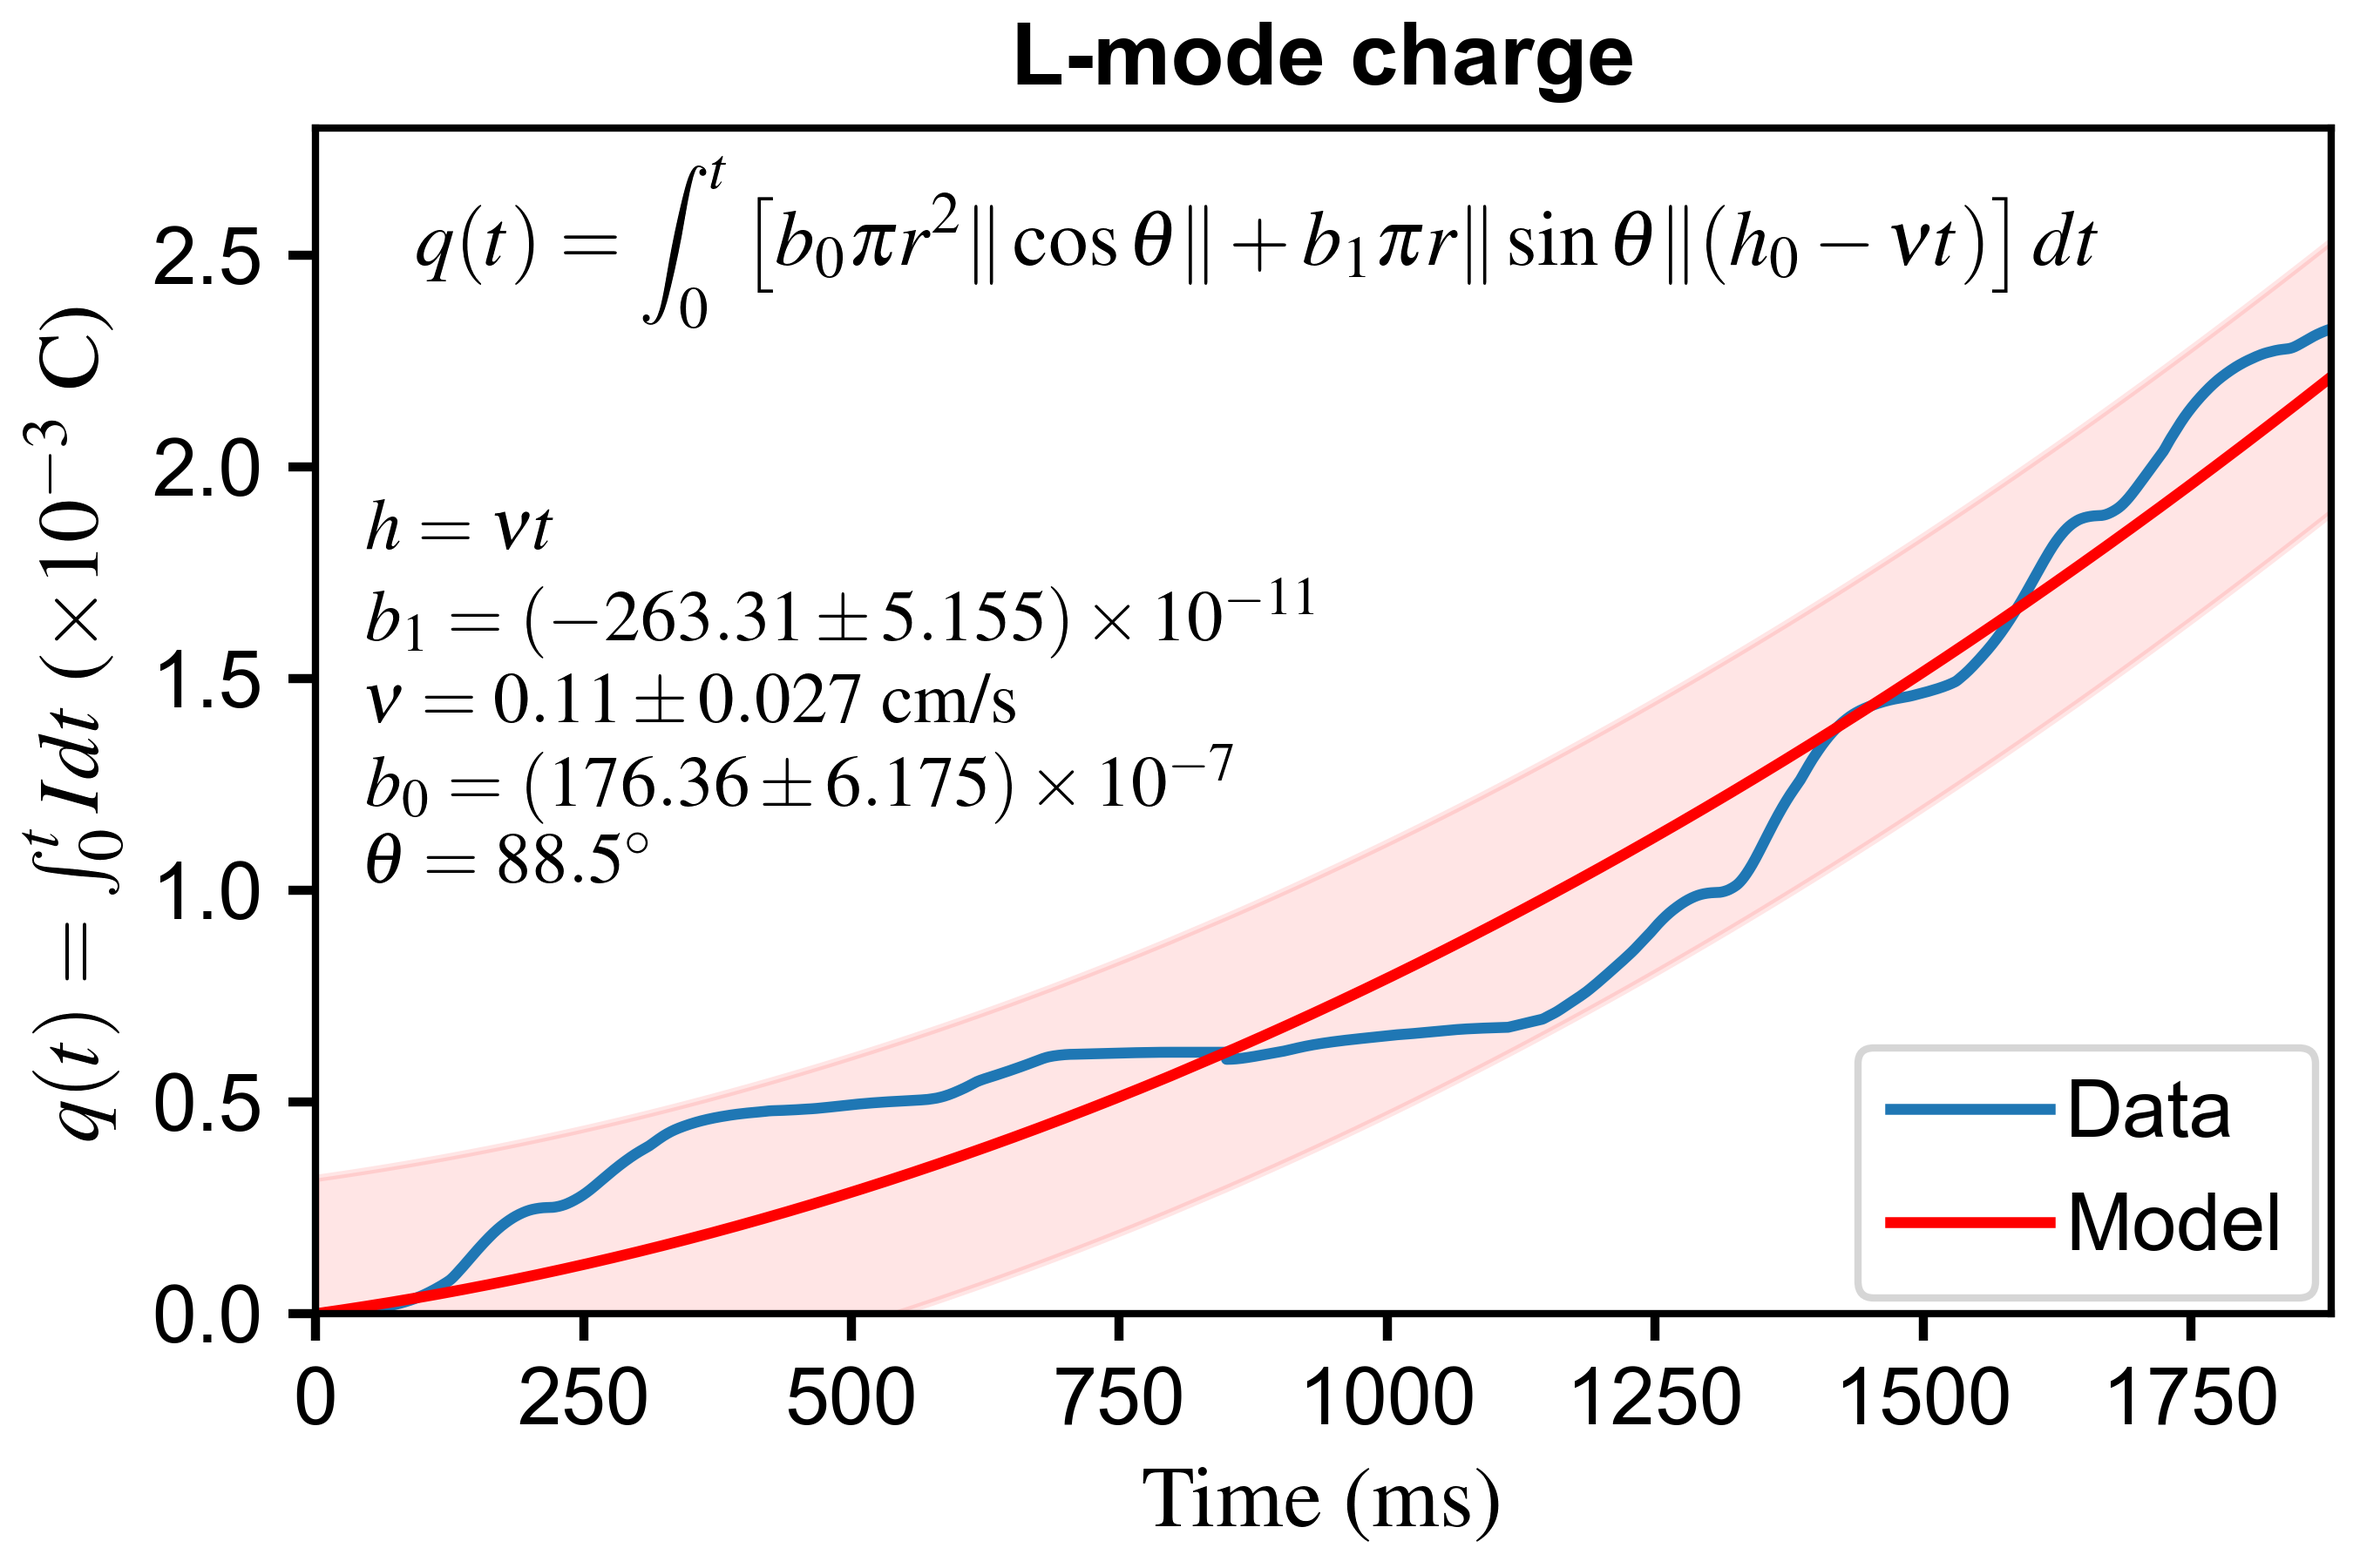
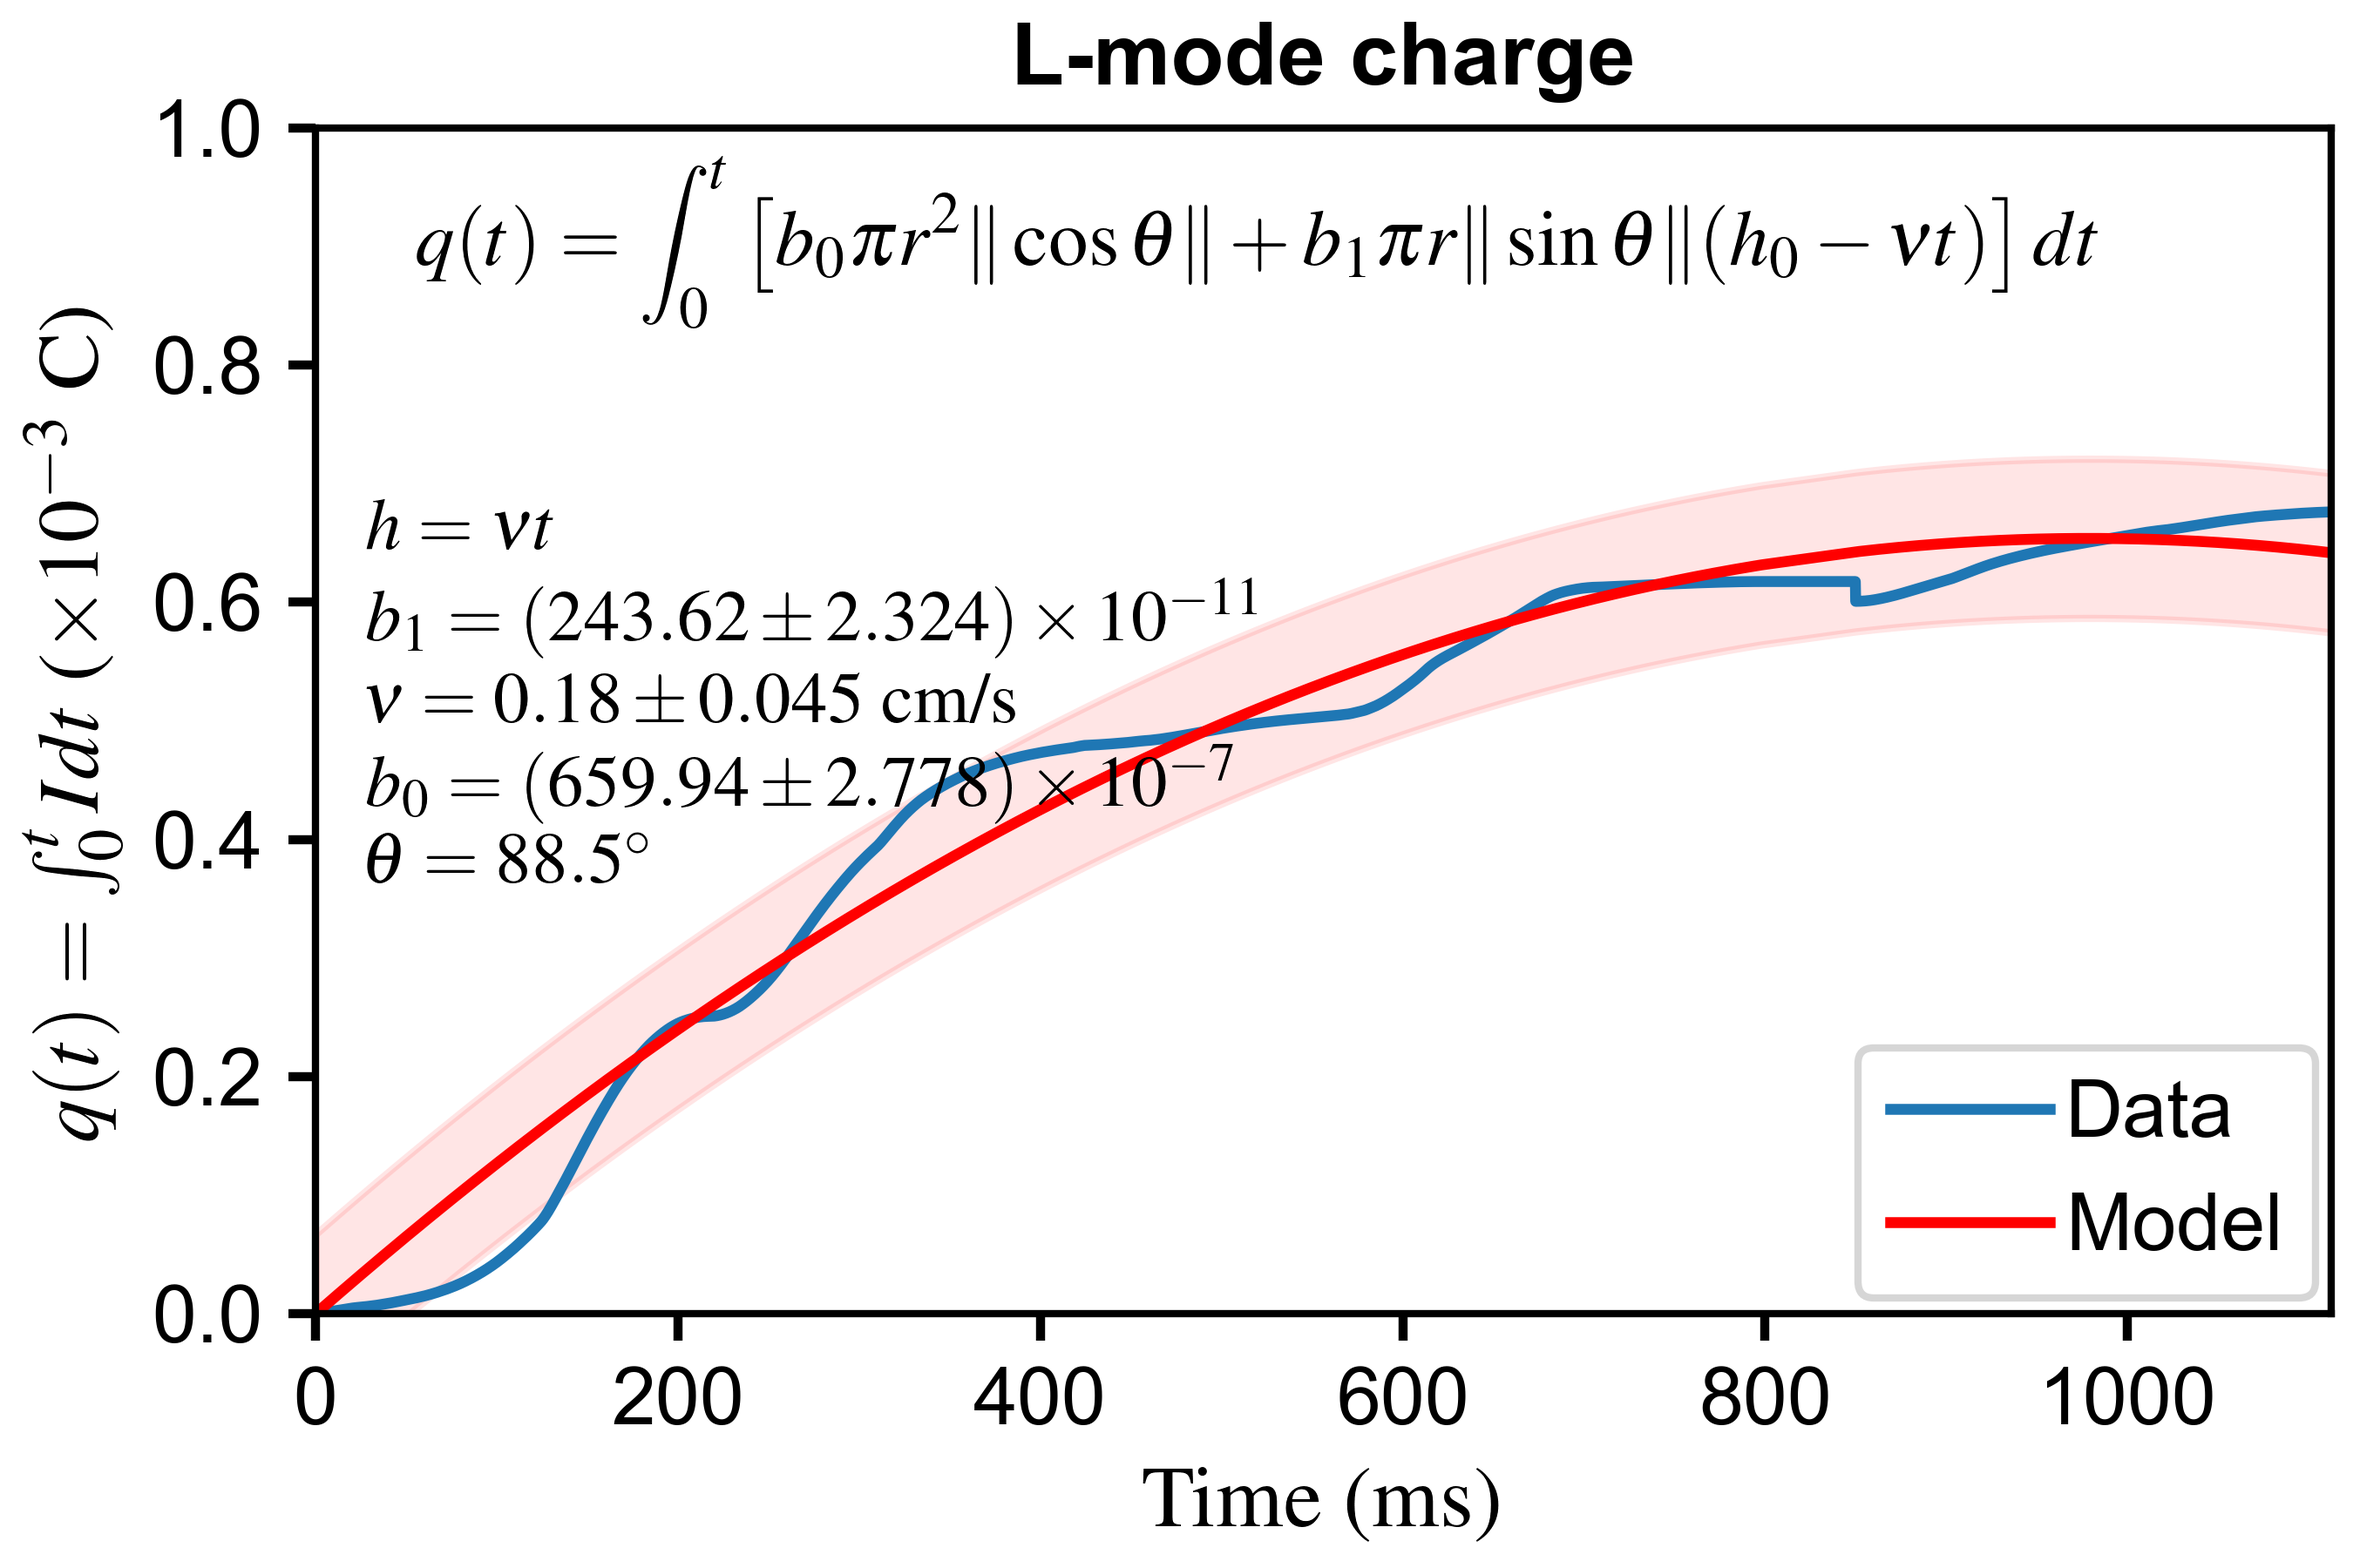
Fitting iteration

diff --git a/data_processing/2025/DIII-D - pebble rod/recession rate model/L-mode_current.py b/data_processing/2025/DIII-D - pebble rod/recession rate model/L-mode_current.py
@@ -10,7 +10,7 @@ from data_processing.utils import latex_float_with_error
 
 DATA_DIR = r'./data/integrated_current'
 FIGURES_DIR = r'./figures/integrated_current'
-SHOTS = [203780, 203781, 203782, 203783]
+SHOTS = [203780, 203781]
 THETA_BEAM = 1.5 # DEG
 
 PEBBLE_ROD_DETAILS_XLS = r'./pebble_rod_exposure.xlsx'
@@ -119,7 +119,7 @@ def model(t ,b, diameter, theta_degrees, h0, nu):
     b0, b1 = b
     qi = (b0 * 0.25 * np.pi * (diameter ** 2) * abs(np.cos(theta)) * t
           + b1 * 0.5 * np.pi * diameter * abs(np.sin(theta)) * h0  * t
-          - b1 * 0.5 * np.pi * diameter * abs(np.sin(theta)) * nu * t ** 2)
+          - b1 * 0.5 * np.pi * diameter * abs(np.sin(theta)) * nu * 0.5 * t ** 2)
     return qi
 
 def residual(b, t, q, diameter, theta_degrees, h0, nu):
@@ -132,7 +132,7 @@ def jacobian(b, t, q, diameter, theta_degrees, h0, nu):
     jac = np.zeros((m, n))
 
     jac[:, 0] =  0.25 * np.pi * (diameter ** 2) * abs(np.cos(theta)) * t
-    jac[:, 1] =  0.5 * np.pi * diameter * abs(np.sin(theta)) * (h0 * t - nu * t ** 2 )
+    jac[:, 1] =  0.5 * np.pi * diameter * abs(np.sin(theta)) * (h0 * t - nu * 0.5 *  t ** 2 )
 
     return jac
 
@@ -161,6 +161,7 @@ def main(shots, data_dir, fig_dir):
     pebble_rod_details = get_pebble_rod_details(shots[0])
     diameter = pebble_rod_details.loc[0, 'diameter (cm)']
     protrusion = pebble_rod_details.loc[0, 'protrusion (mm)']
+    experiment_id = pebble_rod_details.loc[0, 'experiment id']
 
 
     for shot in shots:
@@ -238,13 +239,13 @@ def main(shots, data_dir, fig_dir):
     ax.set_ylabel('$q(t) = \int_0^t I dt$ ($\\times 10^{-3}$ C)', usetex=True)
     ax.set_xlim(round_for_lim(t_ms.min(), factor=5), round_for_lim(t_ms.max(), factor=5))
     ax.set_ylim(round_for_lim(qi.min()*1E3, factor=5), round_for_lim(qi.max()*1.2*1E3, factor=5))
-    ax.set_title(rf'L-mode charge')
+    ax.set_title(rf'L-mode charge (sample {experiment_id})')
 
     ax.legend(loc='lower right', frameon=True)
     path_to_fig = Path(fig_dir)
     path_to_fig.mkdir(parents=True, exist_ok=True)
 
-    fig.savefig(path_to_fig / f'L-mode_current.png', dpi=600)
+    fig.savefig(path_to_fig / f'L-mode_current_#{experiment_id}.png', dpi=600)
 
     plt.show()
 
